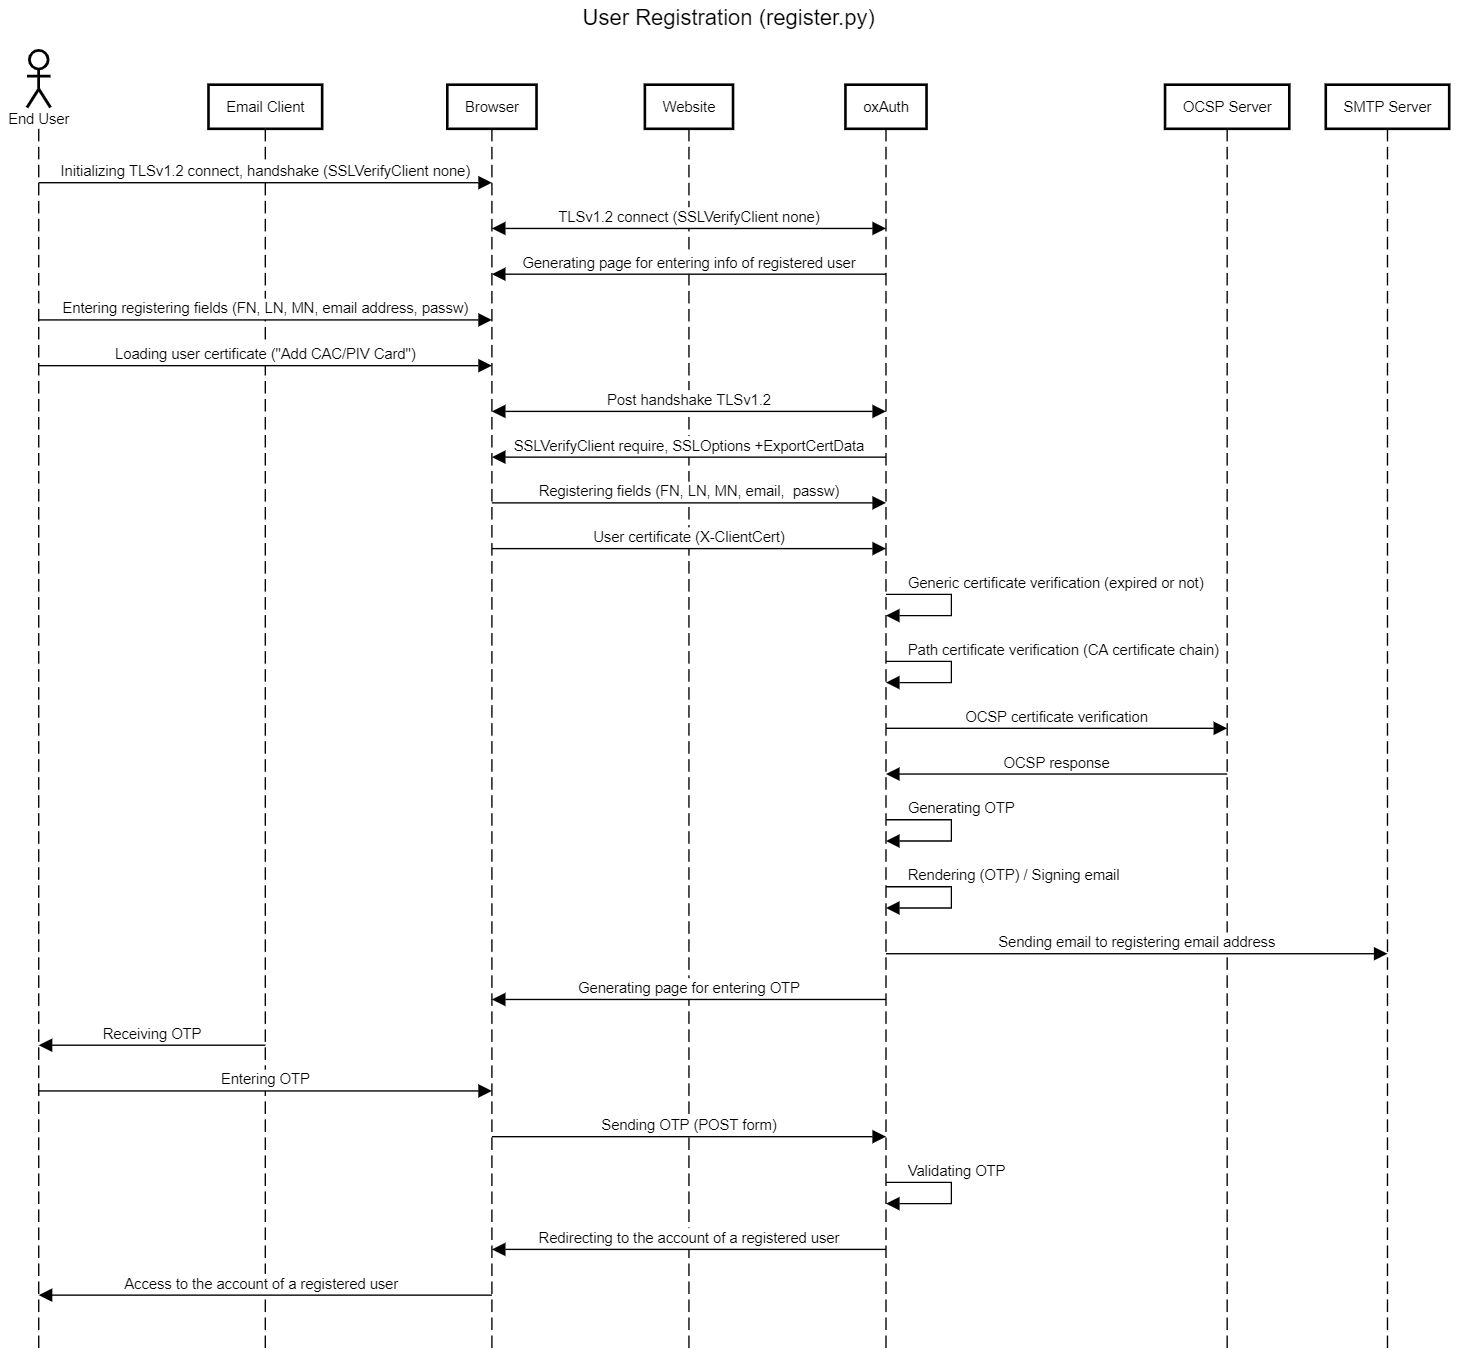
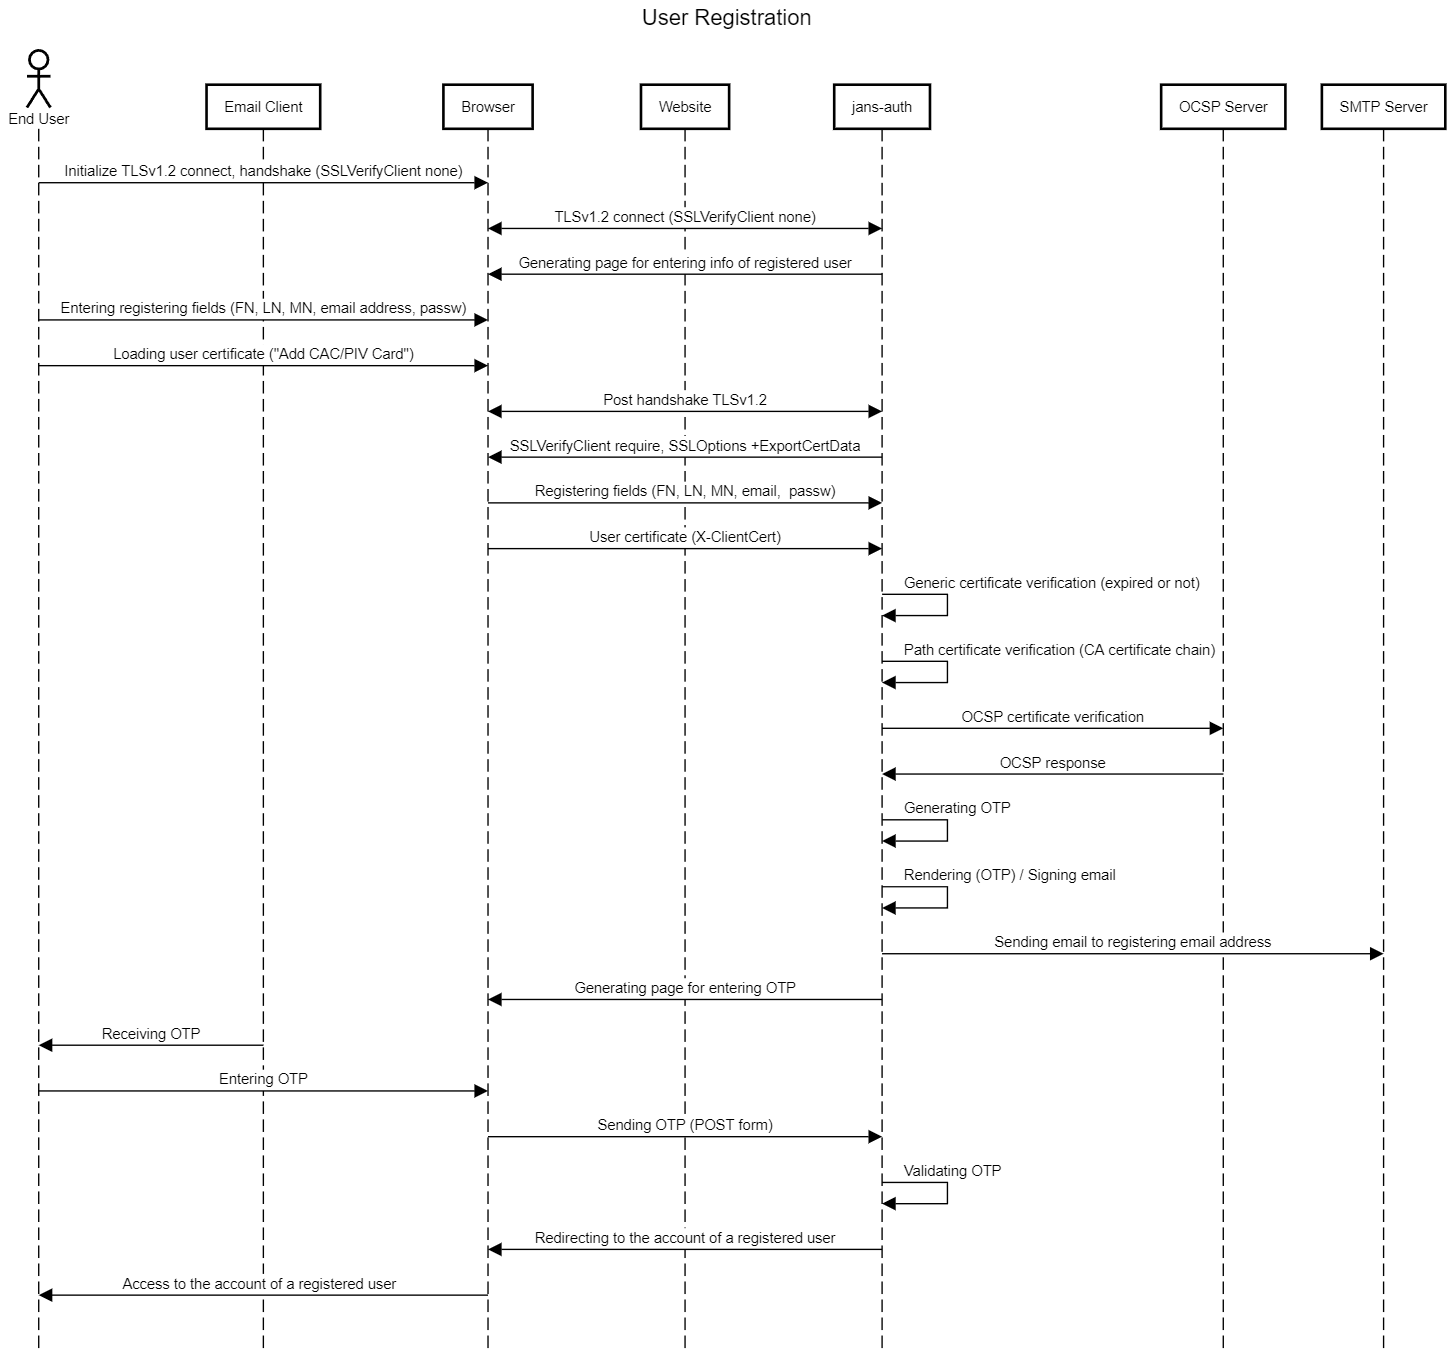
docs: README.md has been updated;

diff --git a/jans/README.md b/jans/README.md
@@ -1108,7 +1108,7 @@ keytool -list -v -keystore /etc/certs/smtp-keys.bcfks -storetype BCFKS \
 ![Diagram 4 Registration Otp Sequence](./img/Diagram-4-register_otp_sequence.png)
 
 ```text
-title User Registration (register.py)
+title User Registration
 
 actor End User
 participant Email Client
